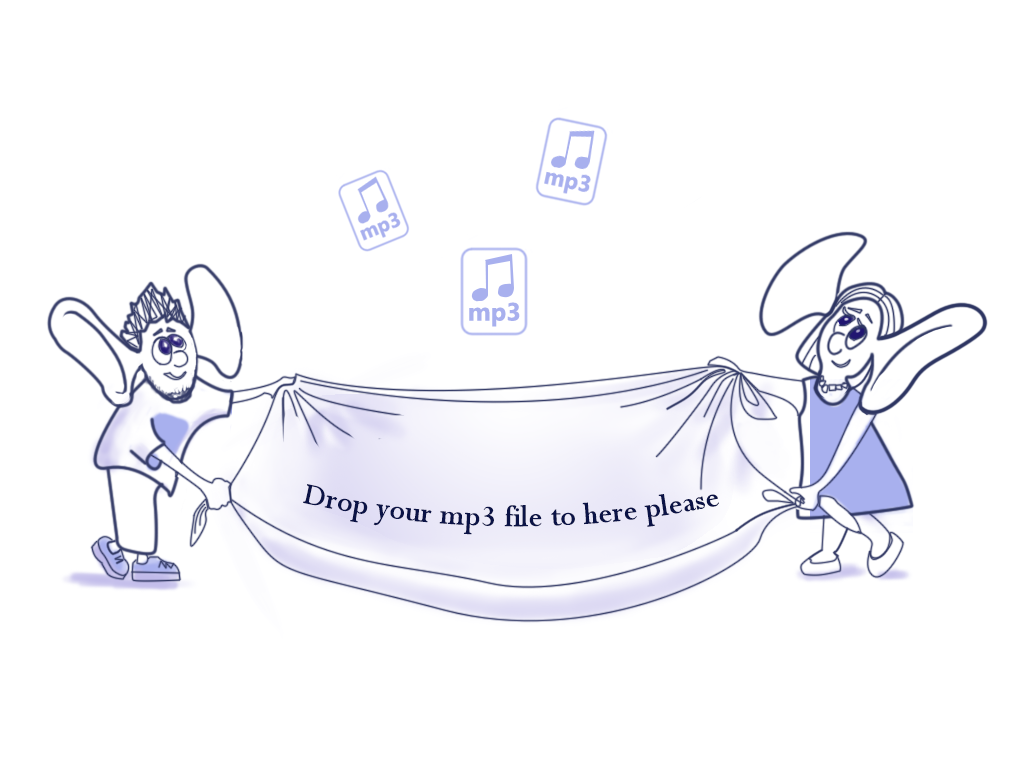
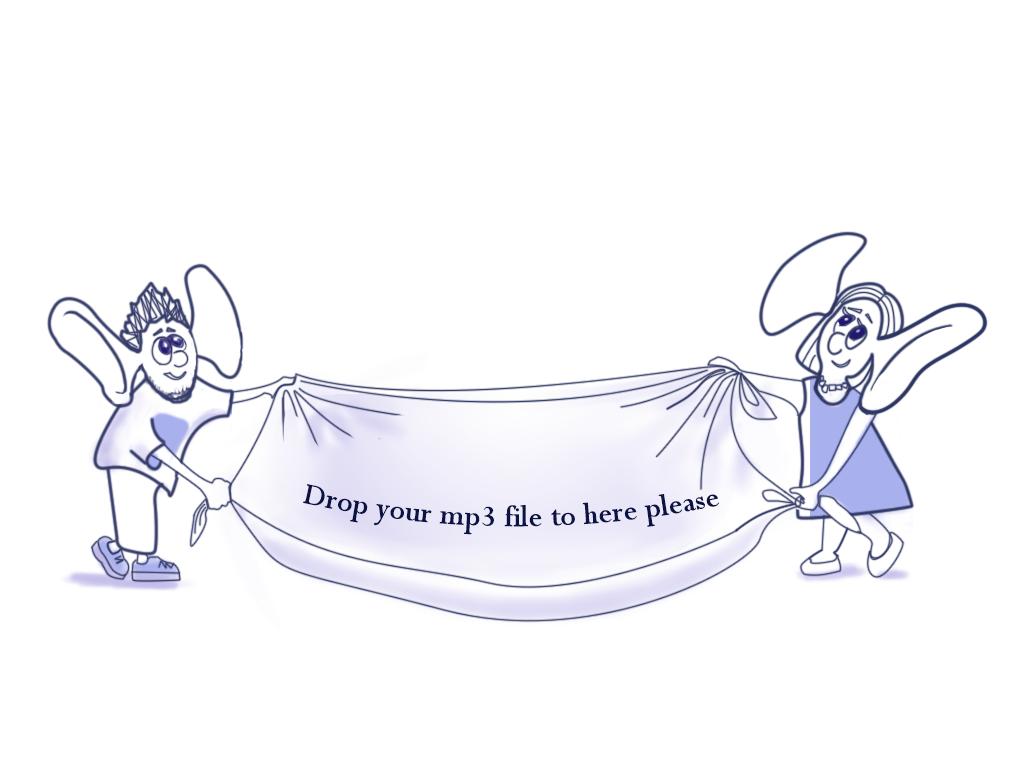
- Removed cutter (replaced it on the AudioEditorComponet); - Changed image in the DropboxComponent.

Changed region(s): [[0.4375, 0.3125, 0.5312, 0.4375], [0.5312, 0.1562, 0.5938, 0.2812], [0.3438, 0.2188, 0.4062, 0.3438]]

diff --git a/gui/app/app.routing.ts b/gui/app/app.routing.ts
@@ -5,7 +5,7 @@
 import {ModuleWithProviders}  from '@angular/core';
 import {Routes, RouterModule, Route} from '@angular/router';
 import {DropboxComponent} from "./dropbox/dropbox.component";
-import {CutterComponent} from "./cutter/cutter.component";
+import {AudioEditorComponent} from "./editor/editor.component";
 import {TrendsComponent} from "./trends/trends.component";
 import {ApiComponent} from "./api/api.component";
 import {AboutComponent} from "./about/about.component";
@@ -15,11 +15,11 @@ import {Error404Component} from "./errors/error404.component"
 const appRoutes:Routes = [
     {
         path: '',
-        component: CutterComponent
+        component: AudioEditorComponent
     },
     {
         path: 'new',
-        component: CutterComponent
+        component: AudioEditorComponent
     },
     {
         path: 'trends',

diff --git a/gui/app/app.module.ts b/gui/app/app.module.ts
@@ -8,7 +8,7 @@ import {BrowserModule} from "@angular/platform-browser";
 import {AppComponent} from "./app/app.component";
 import {NavigationComponent} from "./navigation/navigation.component";
 import {DropboxComponent} from "./dropbox/dropbox.component";
-import {CutterComponent} from "./cutter/cutter.component";
+import {AudioEditorComponent} from "./editor/editor.component";
 import {TrendsComponent} from "./trends/trends.component";
 import {ApiComponent} from "./api/api.component";
 import {AboutComponent} from "./about/about.component";
@@ -21,7 +21,7 @@ import {routing} from "./app.routing";
     imports: [BrowserModule, routing],
     declarations: [AppComponent,
         DropboxComponent,
-        CutterComponent,
+        AudioEditorComponent,
         NavigationComponent,
         ApiComponent,
         TrendsComponent,

diff --git a/gui/app/editor/editor.component.ts b/gui/app/editor/editor.component.ts
@@ -1,0 +1,19 @@
+/**
+ * Created by Warlock on 01.10.2016.
+ */
+
+import {Component, OnInit} from "@angular/core";
+
+@Component({
+    selector: 'audio-editor',
+    templateUrl: 'app/editor/editor.template.html',
+    styleUrls: []
+})
+export class AudioEditorComponent implements OnInit {
+    constructor() {
+    }
+
+    ngOnInit():void {
+        console.log("Audio editor is loaded");
+    }
+}

diff --git a/gui/app/editor/editor.template.html b/gui/app/editor/editor.template.html
@@ -1,0 +1,1 @@
+<dropbox></dropbox>
